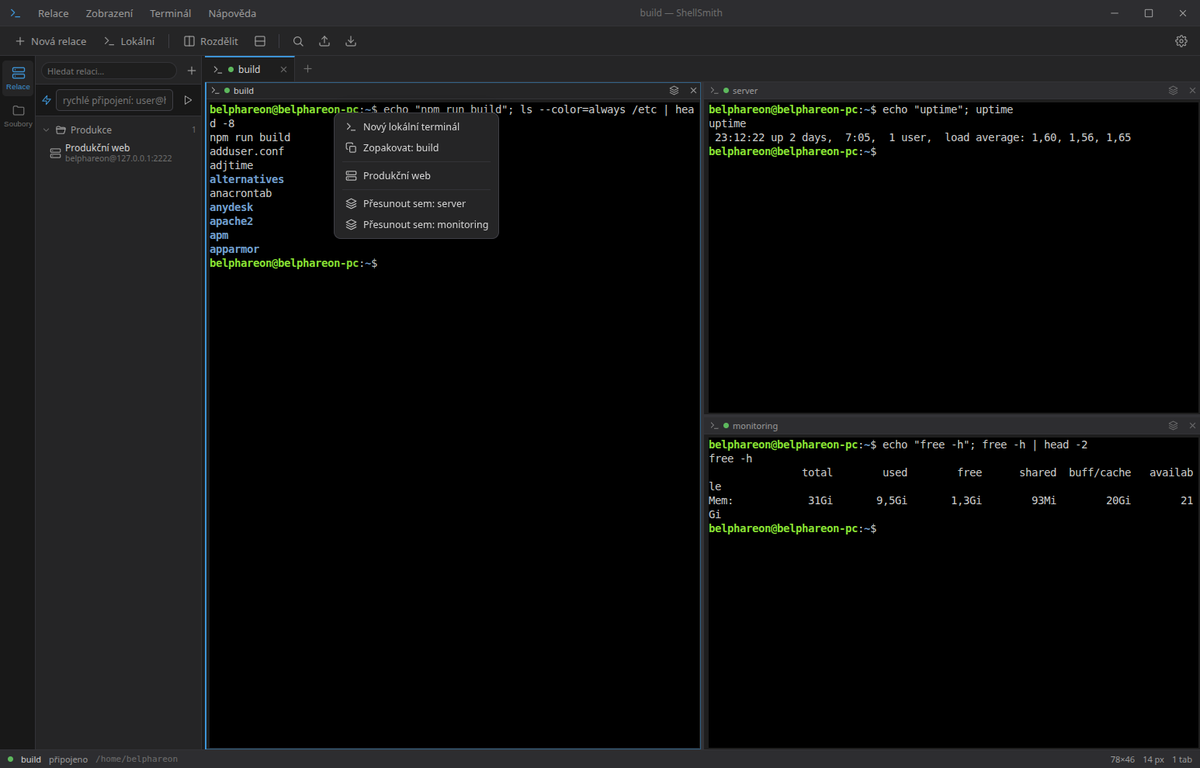
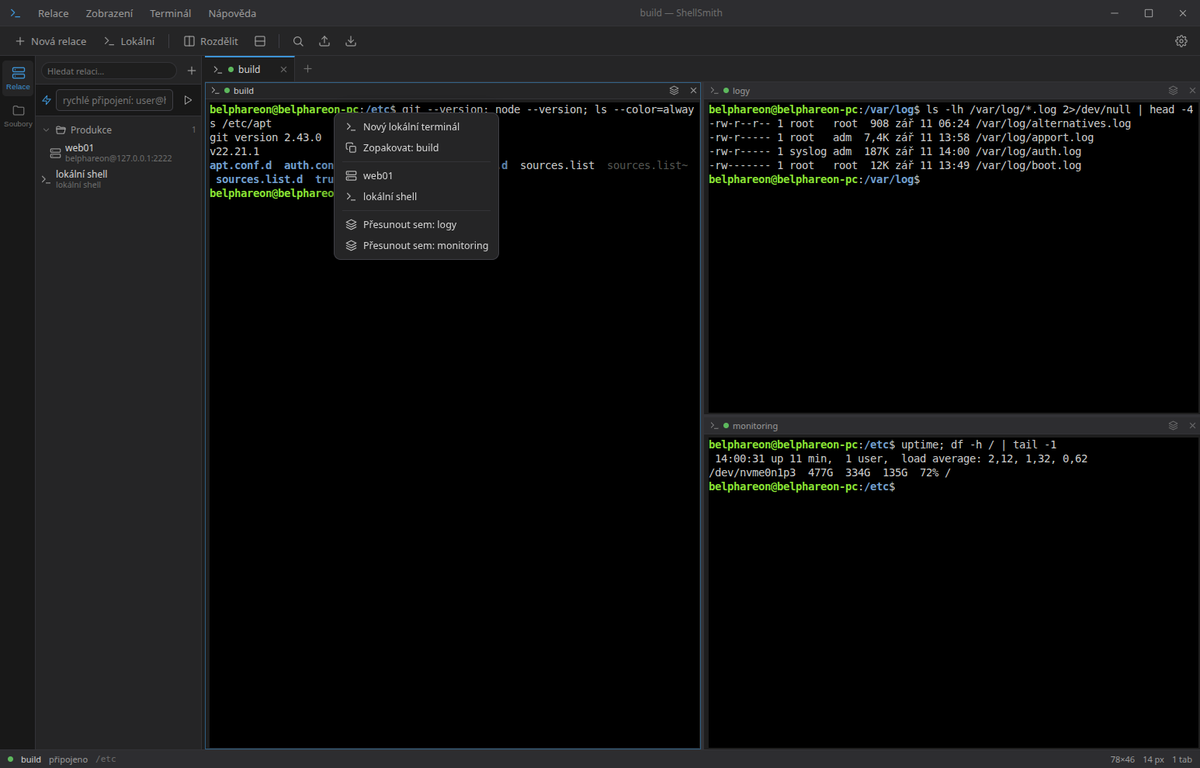
Licence pořádně, metadata balíčku a neutrální snímky
Licence:
- LICENSE s úplným zněním MIT (copyright 2026 Belphareon); dosud to byl jen
  řádek v package.json a zmínka v README, tedy nic, o co by se šlo opřít
- THIRD-PARTY-NOTICES.md se seznamem knihoven, které se distribuují spolu
  s aplikací, včetně verzí a licencí; 16 běhových závislostí, všechny pod
  permisivní licencí slučitelnou s MIT
- scripts/collect-licenses.mjs seznam přegeneruje ze skutečného stavu
  závislostí (`npm run licenses`) a zakřičí, když u balíčku licenci nenajde

Metadata balíčku:
- doplněn autor, homepage, repository a bugs; tím se odblokovalo sestavení
  .deb, které dřív padalo na chybějících polích Maintainer a Homepage
- `npm run dist` teď staví AppImage i .deb

Snímky obrazovky:
- přegenerovány nad /etc a /var/log místo domovského adresáře, aby se do
  veřejného repozitáře nedostaly názvy osobních složek

diff --git a/THIRD-PARTY-NOTICES.md b/THIRD-PARTY-NOTICES.md
@@ -1,0 +1,45 @@
+# Licence použitých knihoven
+
+ShellSmith je [MIT](LICENSE). Do spustitelného balíčku (AppImage, `.deb`)
+se spolu s ním distribuují níže uvedené knihovny. Všechny jsou pod
+permisivními licencemi, které distribuci v rámci MIT projektu dovolují.
+
+Seznam odpovídá stavu produkčních závislostí v `package-lock.json`;
+po změně závislostí ho přegenerujte příkazem `npm run licenses`.
+
+## Běhové závislosti
+
+| Knihovna | Verze | Licence | Zdroj |
+|---|---|---|---|
+| `@xterm/addon-fit` | 0.10.0 | MIT | [https://github.com/xtermjs/xterm.js/tree/master/addons/addon-fit](https://github.com/xtermjs/xterm.js/tree/master/addons/addon-fit) |
+| `@xterm/addon-search` | 0.15.0 | MIT | [https://github.com/xtermjs/xterm.js/tree/master/addons/addon-search](https://github.com/xtermjs/xterm.js/tree/master/addons/addon-search) |
+| `@xterm/addon-unicode11` | 0.8.0 | MIT | [https://github.com/xtermjs/xterm.js/tree/master/addons/addon-unicode11](https://github.com/xtermjs/xterm.js/tree/master/addons/addon-unicode11) |
+| `@xterm/addon-web-links` | 0.11.0 | MIT | [https://github.com/xtermjs/xterm.js/tree/master/addons/addon-web-links](https://github.com/xtermjs/xterm.js/tree/master/addons/addon-web-links) |
+| `@xterm/addon-webgl` | 0.18.0 | MIT | [https://github.com/xtermjs/xterm.js/tree/master/addons/addon-webgl](https://github.com/xtermjs/xterm.js/tree/master/addons/addon-webgl) |
+| `@xterm/xterm` | 5.5.0 | MIT | [https://github.com/xtermjs/xterm.js](https://github.com/xtermjs/xterm.js) |
+| `asn1` | 0.2.6 | MIT | [https://github.com/joyent/node-asn1](https://github.com/joyent/node-asn1) |
+| `bcrypt-pbkdf` | 1.0.2 | BSD-3-Clause | [https://github.com/joyent/node-bcrypt-pbkdf](https://github.com/joyent/node-bcrypt-pbkdf) |
+| `buildcheck` | 0.0.7 | MIT | [http://github.com/mscdex/buildcheck](http://github.com/mscdex/buildcheck) |
+| `cpu-features` | 0.0.10 | MIT | [https://github.com/mscdex/cpu-features](https://github.com/mscdex/cpu-features) |
+| `nan` | 2.28.0 | MIT | [https://github.com/nodejs/nan](https://github.com/nodejs/nan) |
+| `node-addon-api` | 7.1.1 | MIT | [https://github.com/nodejs/node-addon-api](https://github.com/nodejs/node-addon-api) |
+| `node-pty` | 1.1.0 | MIT | [https://github.com/microsoft/node-pty](https://github.com/microsoft/node-pty) |
+| `safer-buffer` | 2.1.2 | MIT | [https://github.com/ChALkeR/safer-buffer](https://github.com/ChALkeR/safer-buffer) |
+| `ssh2` | 1.17.0 | MIT | [http://github.com/mscdex/ssh2](http://github.com/mscdex/ssh2) |
+| `tweetnacl` | 0.14.5 | Unlicense | [https://github.com/dchest/tweetnacl-js](https://github.com/dchest/tweetnacl-js) |
+
+## Běhové prostředí
+
+| Knihovna | Verze | Licence | Zdroj |
+|---|---|---|---|
+| `electron` | 37.2.1 | MIT | [https://github.com/electron/electron](https://github.com/electron/electron) |
+
+Electron s sebou nese Chromium a Node.js, které stojí na dalších licencích
+(BSD-3-Clause a další). Jejich úplné znění najdete v balíčku v souborech
+`LICENSES.chromium.html` a `LICENSE.electron.txt`, které tam Electron přikládá.
+
+## Co ShellSmith nepřibaluje
+
+Ikony aplikace jsou původní. Žádné písmo se nedistribuuje – rozhraní i
+terminál používají písma nainstalovaná v systému, a pokud zvolené písmo
+chybí, sáhne se po systémovém záložním.

diff --git a/README.md b/README.md
@@ -36,12 +36,9 @@ Odinstalace: `./uninstall.sh` (nastavení v `~/.config/shellsmith` zůstává).
 ### Distribuční balíčky
 
 ```bash
-npm run dist      # přenositelný AppImage do release/
+npm run dist      # AppImage i .deb do release/
+npm run dist:deb  # jen .deb
 ```
-
-Chcete-li i `.deb`, doplňte do `package.json` pole `homepage` a `author.email`
-(Debian je vyžaduje pro pole *Homepage* a *Maintainer* v control souboru)
-a spusťte `npm run dist:deb`.
 
 ---
 
@@ -263,4 +260,15 @@ případně spusťte s `SHELLSMITH_DEBUG=1` a podívejte se na průběh.
 
 ## Licence
 
-MIT
+ShellSmith je pod licencí **MIT** — úplné znění v souboru [LICENSE](LICENSE).
+Smíte ho používat, upravovat i šířit dál, včetně komerčního použití; jedinou
+podmínkou je zachovat v kopiích uvedení autorství a text licence. Software se
+poskytuje „jak stojí a leží", bez záruky.
+
+Copyright © 2026 Belphareon
+
+Do spustitelných balíčků se spolu s aplikací distribuují knihovny třetích
+stran (xterm.js, ssh2, node-pty, Electron a další). Jejich seznam včetně verzí
+a licencí je v [THIRD-PARTY-NOTICES.md](THIRD-PARTY-NOTICES.md) a dá se
+kdykoli přegenerovat příkazem `npm run licenses`. Všechny jsou pod
+permisivními licencemi slučitelnými s MIT.
